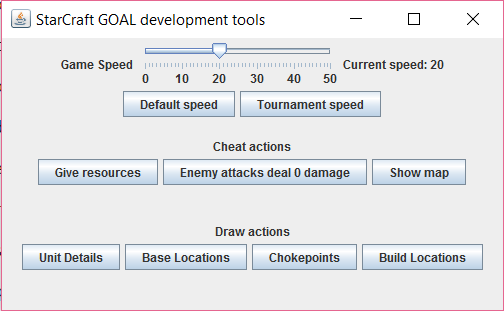
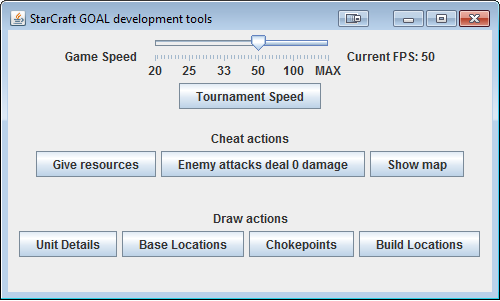
Updated Manual with the new environment changes

diff --git a/doc/sources/percepts.tex b/doc/sources/percepts.tex
@@ -131,7 +131,7 @@ These percepts are available to all the units and buildings.
 \\
 \begin{tabularx}{\textwidth}{lX}
  Description & The race of your opponent. \\
- Type & Send once \\
+ Type & Send on change \\
  Syntax &  \verb|enemyRace(<Race>)| \\
  Example & \verb|enemyRace(protoss)|   \\ 
  \end{tabularx}
@@ -141,6 +141,34 @@ These percepts are available to all the units and buildings.
              & \textbf{Type} & \verb|String| \\
             \cline{2-3} 
 \end{tabularx}
+\\\\
+\noindent
+\textbf{GameSpeed percept}\\
+\\
+\begin{tabularx}{\textwidth}{lX}
+ Description & The current game speed in frames per seconds. For more information see Section \ref{game speed}. \\
+ Type & Send on change \\
+ Syntax &  \verb|gameSpeed(<FPS>)| \\
+ Example & \verb|gameSpeed(50)|   \\ 
+ \end{tabularx}
+ \begin{tabularx}{\textwidth}{l | c | p{8cm}|}
+ \cline{2-3} 
+  Parameters & \textbf{\verb|<FPS>|} & The current amount of frames per second the game is updated by. \\
+             & \textbf{Type} & \verb|Positive Integer| \\
+             & \textbf{Range} & [0--$\infty$] \\
+            \cline{2-3} 
+\end{tabularx}
+\\\\
+\noindent
+\textbf{Winner percept}\\
+\\
+\begin{tabularx}{\textwidth}{lX}
+ Description & At the end of the game all units will perceive this if you have won the game. \\
+ Type & always \\
+ Syntax &  \verb|winner| \\
+ Example & \verb|winner|   \\ 
+ \end{tabularx}
+
 
 \subsection{Map Percepts}
 \textbf{Map percept}\\
@@ -162,7 +190,7 @@ These percepts are available to all the units and buildings.
             & \textbf{Range} & [0--$\infty$] \\
             \cline{2-3} 
 \end{tabularx}\\
- 
+ \newpage
 \noindent
 \textbf{Base percept}\\
 \\
@@ -218,7 +246,7 @@ These percepts are available to all the units and buildings.
 \textbf{Attacking percept}\\
 \\
 \begin{tabularx}{\textwidth}{lX}
- Description & Shows the units which are attacking and which units they have targeted. \\
+ Description & Shows the enemy units which are attacking and which units they have targeted. \\
  Type & Send always \\
  Syntax & \verb|attacking(<ID>,<TargetID>,<X>,<Y>)| \\
  Example & \verb|attacking(123, 177, 120, 96)| \\ 
@@ -245,20 +273,63 @@ These percepts are available to all the units and buildings.
 
 \newpage
 \noindent
-\textbf{Unit percept}\\
+\textbf{Friendly percept}\\
 \\
 \begin{tabularx}{\textwidth}{lX}
  Description & Shows all units that are currently visible to the player. \\
  Type & Send always \\
- Syntax & \verb|unit(<IsFriendly>,<Type>,<ID>,<Health>,<Shield>,<Condition>)| \\
- Example & \verb|unit(true, Protoss Gateway, 26, 255, 255, [isBeingConstructed])| \\ 
+ Syntax & \verb|unit(<Type>,<ID>,<Condition>)| \\
+ Example & \verb|unit(Protoss Gateway, 26, [isBeingConstructed])| \\ 
  \end{tabularx}
  \begin{tabularx}{\textwidth}{l | c | p{8cm}|}
  \cline{2-3} 
- Parameters & \textbf{\verb|<IsFriendly>|} & Indicates whether the unit is friendly or not. \\
-            & \textbf{Type} & \verb|Boolean| (true or false) \\
-            \cline{2-3} 
+ Parameters 
             & \textbf{\verb|<Type>|} & The type of the unit. The type of a unit consists of a string with the race of the unit and the name of the unit parted by a space. See Section \ref{unittype} for the list of all the unit types. \\
+            & \textbf{Type} & \verb|String| \\
+            \cline{2-3} 
+            & \textbf{\verb|<ID>|} & The (unique) \textit{ID} of the unit.\\
+            & \textbf{Type} & \verb|Positive Integer| \\
+            & \textbf{Range} & [0--$\infty$] \\
+            \cline{2-3} 
+            & \textbf{\verb|<Cond>|} & The current condition of the unit. Each unit can have multiple or no conditions depending on the unit and situation. See Section \ref{conditions} for the list of all actual conditions.\\ 
+            & \textbf{Type} & \verb|List of Strings| \\
+            \cline{2-3} 
+\end{tabularx}\\
+\newpage
+\noindent
+
+% \textbf{UnitAmount percept}\\
+% \\
+% \begin{tabularx}{\textwidth}{lX}
+%  Description & Shows the amount of units for each unit type. \\
+%  Type & Send always \\
+%  Syntax & \verb|unit(<Type>,<Amount>)| \\
+%  Example & \verb|unit(Protoss Gateway, 2)| \\ 
+%  \end{tabularx}
+%  \begin{tabularx}{\textwidth}{l | c | p{8cm}|}
+%  \cline{2-3} 
+%  Parameters & \textbf{\verb|<Type>|} & The type of the unit. The type of a unit consists of a string with the race            of the unit and the name of the unit parted by a space. See Section \ref{unittype} for the list of               all the unit types. \\
+%             & \textbf{Type} & \verb|String| \\
+%             \cline{2-3} 
+%             & \textbf{\verb|<Amount>|} & The Amount of units of the given type that are currently in the game.\\ 
+%             & \textbf{Type} & \verb|Positivie Integer| \\
+%             & \textbf{Range} & [0--400] \\
+%             \cline{2-3} 
+% \end{tabularx}\\
+
+%\newpage
+\noindent
+\textbf{Enemy percept}\\
+\\
+\begin{tabularx}{\textwidth}{lX}
+ Description & Shows all enemy units that are currently visible to the player. \\
+ Type & Send always \\
+ Syntax & \verb|enemy(<Type>,<ID>,<Health>,<Shield>,<Condition>,<X>,<Y>)| \\
+ Example & \verb|enemy(Zerg Overlord, 12, 200, 0, [flying], 120, 96)| \\ 
+ \end{tabularx}
+ \begin{tabularx}{\textwidth}{l | c | p{8cm}|}
+ \cline{2-3} 
+ Parameters & \textbf{\verb|<Type>|} & The type of the unit. The type of a unit consists of a string with the race of            the unit and the name of the unit parted by a space. \\
             & \textbf{Type} & \verb|String| \\
             \cline{2-3} 
             & \textbf{\verb|<ID>|} & The (unique) \textit{ID} of the unit.\\
@@ -276,63 +347,15 @@ These percepts are available to all the units and buildings.
             & \textbf{\verb|<Cond>|} & The current condition of the unit. Each unit can have multiple or no conditions depending on the unit and situation. See Section \ref{conditions} for the list of all actual conditions.\\ 
             & \textbf{Type} & \verb|List of Strings| \\
             \cline{2-3} 
-\end{tabularx}\\
-\newpage
-\noindent
-\textbf{UnitAmount percept}\\
-\\
-\begin{tabularx}{\textwidth}{lX}
- Description & Shows the amount of units for each unit type. \\
- Type & Send always \\
- Syntax & \verb|unit(<Type>,<Amount>)| \\
- Example & \verb|unit(Protoss Gateway, 2)| \\ 
- \end{tabularx}
- \begin{tabularx}{\textwidth}{l | c | p{8cm}|}
- \cline{2-3} 
- Parameters & \textbf{\verb|<Type>|} & The type of the unit. The type of a unit consists of a string with the race            of the unit and the name of the unit parted by a space. See Section \ref{unittype} for the list of               all the unit types. \\
-            & \textbf{Type} & \verb|String| \\
+            & \textbf{\verb|<X>|} & The x-coordinate of the unit.\\
+            & \textbf{Type} & \verb|Positive Integer| \\
+            & \textbf{Range} & [0--$\infty$] \\
             \cline{2-3} 
-            & \textbf{\verb|<Amount>|} & The Amount of units of the given type that are currently in the game.\\ 
-            & \textbf{Type} & \verb|Positivie Integer| \\
-            & \textbf{Range} & [0--400] \\
+            & \textbf{\verb|<Y>|} & The y-coordinate of the unit.\\
+            & \textbf{Type} & \verb|Positive Integer| \\
+            & \textbf{Range} & [0--$\infty$] \\
             \cline{2-3} 
 \end{tabularx}\\
-
-\newpage
-% \noindent
-% \textbf{Enemy percept}\\
-% \\
-% \begin{tabularx}{\textwidth}{lX}
-%  Description & Shows all enemy units that are currently visible to the player. \\
-%  Type & Send always \\
-%  Syntax & \verb|enemy(<Type>,<Health>,<Shield>,<Condition>,<X>,<Y>)| \\
-%  Example & \verb|enemy(Zerg Overlord, 200, 0, [flying], 120, 96)| \\ 
-%  \end{tabularx}
-%  \begin{tabularx}{\textwidth}{l | c | p{8cm}|}
-%  \cline{2-3} 
-%  Parameters & \textbf{\verb|<Type>|} & The type of the unit. The type of a unit consists of a string with the race of            the unit and the name of the unit parted by a space. \\
-%             & \textbf{Type} & \verb|String| \\
-%             \cline{2-3} 
-%             & \textbf{\verb|<Health>|} & The current amount of health of the unit.\\
-%             & \textbf{Type} & \verb|Positive Integer| \\
-%             & \textbf{Range} & [0--\verb|<maxHealth>|] where \verb|<maxHealth>| is the maximum health of the given unit.\\
-%             \cline{2-3} 
-%             & \textbf{\verb|<Shield>|} & The current amount of shields of the unit. \\
-%             & \textbf{Type} & \verb|Positive Integer| \\
-%             & \textbf{Range} & [0--\verb|<maxShield>|] where \verb|<maxShield>| is the maximum shield of the given unit. \\
-%             \cline{2-3} 
-%             & \textbf{\verb|<Cond>|} & The current condition of the unit. Each unit can have multiple or no conditions depending on the unit and situation. See Section \ref{conditions} for the list of all actual conditions.\\ 
-%             & \textbf{Type} & \verb|List of Strings| \\
-%             \cline{2-3} 
-%             & \textbf{\verb|<X>|} & The x-coordinate of the unit.\\
-%             & \textbf{Type} & \verb|Positive Integer| \\
-%             & \textbf{Range} & [0--$\infty$] \\
-%             \cline{2-3} 
-%             & \textbf{\verb|<Y>|} & The y-coordinate of the unit.\\
-%             & \textbf{Type} & \verb|Positive Integer| \\
-%             & \textbf{Range} & [0--$\infty$] \\
-%             \cline{2-3} 
-% \end{tabularx}\\
 
 
 
@@ -476,39 +499,39 @@ These percepts are available to worker units.
 \textbf{Worker Activity Percept}
 \\
 \begin{tabularx}{\textwidth}{lX}
- Description & Shows the current activity of all friendly workers. \\
- Type & Send always \\
- Syntax & \verb|workerActivity(<ID>, <Activity>)| \\
- Example & \verb|workerActivity(146, gatheringGas)| \\ 
+ Description & Shows the current activity of the worker. \\
+ Type & Send on change \\
+ Syntax & \verb|workerActivity(<Activity>)| \\
+ Example & \verb|workerActivity(gatheringGas)| \\ 
  \end{tabularx}
  \begin{tabularx}{\textwidth}{l | c | p{8cm}|}
  \cline{2-3} 
- Parameters & \textbf{\verb|<ID>|} & The (unique) \textit{ID} of the worker unit. \\
-            & \textbf{Type} & \verb|Positive Integer| \\
-            & \textbf{Range} & [0--$\infty$] \\
-            \cline{2-3} 
-            & \textbf{\verb|<Activity>|} & The current activity of the worker unit. Can take values: gatheringGas, gatheringMinerals, constructing or idling. \\
+ Parameters  & \textbf{\verb|<Activity>|} & The current activity of the worker unit. Can take values: gatheringGas, gatheringMinerals, constructing or idling. \\
             & \textbf{Type} & \verb|String| \\
             \cline{2-3} 
 \end{tabularx}\\
 \\
 \newpage
 \noindent
-\textbf{Gathering Percept} \\
-\\
-\begin{tabularx}{\textwidth}{lX}
- Description & Shows which mineral or vespene ID the worker is currently gathering from. \\
- Type & Send always \\
- Syntax & \verb|gathering(<ID>)| \\
- Example & \verb|gathering(110)| \\ 
- \end{tabularx}
- \begin{tabularx}{\textwidth}{l | c | p{8cm}|}
- \cline{2-3} 
- Parameters & \textbf{\verb|<ID>|} & The (unique) \textit{ID} of the mineral or vespene geyser. \\
-            & \textbf{Type} & \verb|Positive Integer| \\
-            & \textbf{Range} & [0--$\infty$] \\
-            \cline{2-3} 
-\end{tabularx}\\
+
+
+%\textbf{Gathering Percept} \\
+%\\
+%\begin{tabularx}{\textwidth}{lX}
+ %Description & Shows which mineral or vespene ID the worker is currently gathering from. \\
+ %Type & Send always \\
+ %Syntax & \verb|gathering(<ID>)| \\
+ %Example & \verb|gathering(110)| \\ 
+ %\end{tabularx}
+ %\begin{tabularx}{\textwidth}{l | c | p{8cm}|}
+ %\cline{2-3} 
+ %Parameters & \textbf{\verb|<ID>|} & The (unique) \textit{ID} of the mineral or vespene geyser. \\
+ %           & \textbf{Type} & \verb|Positive Integer| \\
+ %           & \textbf{Range} & [0--$\infty$] \\
+ %           \cline{2-3} 
+%\end{tabularx}\\
+
+
 
 \subsection{Builder Percepts}
 \textbf{Vespene Geyser percept}\\
@@ -549,8 +572,8 @@ These percepts are available to worker units.
 \begin{tabularx}{\textwidth}{lX}
  Description & Information about a visible mineralfield on the map. \\
  Type & Send on change \\
- Syntax & \verb|vespeneGeyser(<ID>,<Resources>,<ResourceGroup>,<X>,<Y>)| \\
- Example & \verb|vespeneGeyser(57, 5000, 6, 22, 32)| \\ 
+ Syntax & \verb|mineralField(<ID>,<Resources>,<ResourceGroup>,<X>,<Y>)| \\
+ Example & \verb|mineralField(57, 5000, 6, 22, 32)| \\ 
  \end{tabularx}
  \begin{tabularx}{\textwidth}{l | c | p{8cm}|}
  \cline{2-3} 

diff --git a/doc/sources/environment.tex b/doc/sources/environment.tex
@@ -2,23 +2,24 @@
 This section will explain how to set up and start a bot with the starcraft environment using the GOAL programming language.
 
 \section{Chaoslauncher}
-In order to make use of all the starcraft brood war plugin, you can make use of the application: the chaoslauncher. With this application several plugins can be used like the: \textit{BWAPI Injector} which is neccesary for using the BWAPI library. It is also recommended to make use of the plugin: \textit{APMAlert}, which shows the current actions per minute of all your units together. When the APM of your bot is suddenly very high, your agents might be using to many actions in a row. At last it is also recommonded to make use of the \textit{W-Mode} plugin. This plugin automatically sets your Starcraft game in windowed mode which makes it easier for debugging. 
+In order to make use of all the starcraft brood war plugin, you can make use of the application: the chaoslauncher. With this application several plugins can be used like the: \textit{BWAPI Injector} which is neccesary for using the BWAPI library. It is also recommended to make use of the plugin: \textit{APMAlert}, which shows the current actions per minute of all your units together. When the APM of your bot is suddenly very high, your agents might be using to many actions in a row. At last it is also recommended to make use of the \textit{W-Mode} plugin. This plugin automatically sets your Starcraft game in windowed mode which makes it easier for debugging. 
 
 \section{Installation}
 For installation instructions, see: \url{https://github.com/eishub/Starcraft/wiki/Install-Guide}
 
 \section{The Mas2g}
 \label{mas2g}
-The starcraft environment offers multiple parameters to be set up in the mas2g. Within the mas2g you can specify which map you want to play, specify your own race, give up the map location of your starcraft game, turn the development tool on or off, enable the automenu script and specify which race you want to play against.
+The starcraft environment offers multiple parameters to be set up in the mas2g. Within the mas2g you can specify which map you want to play, specify your own race, give up the map location of your starcraft game, turn the development tool on or off, enable the automenu script and specify which race you want to play against. When any of these parameters are updated do not forget to close the Chaoslauncher before launching the project or else it will have no effect.
 
 \begin{verbatim}
-    use StarcraftEnvironment.jar as environment with
+    use "../../StarCraft Connector.jar" as environment with
         map="(2)Destination.scx",
         own_race="terran",
         starcraft_location="C:\\Starcraft",
         debug="true",
         auto_menu="Single_Player",
-        enemy_race="zerg".
+        enemy_race="zerg",
+        game_speed=50.
 \end{verbatim}
 
 \subsection{Map}
@@ -29,7 +30,7 @@ It is possible to specify which map the chaoslauncher will automatically load wh
 \label{own race}
 You may also specify the race of your bot in the mas2g. This will automatically launch the chaoslauncher with the specified race. You can do this by inserting the following line: \textit{own\_race = <RaceName>}, where \textit{<RaceName>} can either be \textit{zerg}, \textit{protoss}, \textit{terran} or \textit{random}. The option \textit{random} will choose one race with 1/3 of a chance for each race. 
 
-\subsection{Starcraft\_Location}
+\subsection{Starcraft Location}
 \label{starcraft location}
 It is also possible to specify the location of the source map of the starcraft game. When using the starcraft game provided by the environment installer, this feature will automatically start the chaoslauncher when launching the GOAL bot. When the chaoslauncher is already running it won't start again untill you close it. When the Choaslauncher is automatically started by the environment, an automatic script will be written with all the necessary information to run the GOAL bot (so it is recommended to use this feature). You can use this feature by inserting the line: \textit{starcraft\_location = <FilePath>}, where \textit{<FilePath>} is the absolute path to the starcraft source folder.
 
@@ -44,6 +45,10 @@ The auto menu parameter can be used to quickly go through the menu of the game w
 \subsection{Enemy Race}
 \label{enemy race}
 The enemy race parameter can be used for specifying which race you want to play against. When an actual enemy race is chosen like: \textit{zerg}, \textit{protoss} or \textit{terran} the \textit{enemyRace} percept will indicate against which race you are playing, while when not specifying an enemy race, so when the option: \textit{random} is chosen, the \textit{enemyRace} percept will be \textit{Unknown} untill the opponent is scouted for the first time. For using the enemy race parameter you can insert the following line: \textit{enemy\_race=<RaceName>}, where \textit{<RaceName>} can either be \textit{zerg}, \textit{protoss}, \textit{terran} or \textit{random}. The option \textit{random} will choose one race with 1/3 of a chance for each race. 
+
+\subsection{Game Speed}
+\label{game speed}
+The game speed parameter can be used to set the initial speed of the game when the StarCraft game is launched. StarCraft makes use of a logical frame rate, which means that the game\_speed depends on the amount of frames per second (fps) used to update the game. So the higher the fps, the faster the game will go. For using the game\_speed parameter you can insert the following line: \textit{game\_speed=<FPS>}, where \textit{<FPS>} is a positive integer. If the integer 0 is chosen, there will be no limit on the amount of FPS used and the game will go as fast as it possibly can. \textbf{Please Note that when Integer 0 is chosen the gameSpeed/1 percept will not give an accurate result}
 
 \subsection{Defining an agent}
 When defining an agent it is important that the right type is given to the agent. This has to be the same type of the starcraft unit where the first letter is non-capital. So for example when you want to add a terran SCV agent, this can be done by defining the type of this agent as: \textit{terranSCV}. Note that each unit type first begins with the race of the unit and is followed by the exact name of the unit type.
@@ -72,7 +77,7 @@ When defining an agent it is important that the right type is given to the agent
 \end{figure}
 
 \subsection{Game Speed}
-The Game Speed slider can be found at the top of the development tool window. This can be used to quickly change the speed of the game. The initial game speed is set to 20. The fastest game speed is 50 and the slowest game speed is 0. Please note that the agent is supposed to play normally at game speed 30 which is the default game speed for AI tournaments. When the speed is set to 50, the agents can react slower than they would be on the tournament gamespeed. Setting the game speed on 50 should only be used for quick testing purposes.
+The Game Speed slider can be found at the top of the development tool window. This can be used to quickly change the speed of the game. The initial game speed is set to 50 fps. The slowest speed is 20 fps and from there you can set it as fast as you want. Please note that the agent is supposed to play normally at 50 fps which is the default game speed for AI tournaments. When the speed is set to a 100 fps or higher, the agents can react slower than they would be on the tournament gamespeed. Setting the game speed on 100 or higher should only be used for quick testing purposes.
 
 \subsection{Cheat Actions}
 The development tool offers 3 buttons which instantly enable cheats. Note that these cheats should be used for testing purposes only. The first cheat is called: \textit{Give resources} which gives the player 10000 minerals and 10000 gas. The second cheat is called: \textit{Enemy attacks deal 0 damager} which makes the units of the player immune for damage. The last cheat is called: \textit{Show map} which makes the whole map visible for the player. Note that also all your agents will be perceiving everything on the map. 

diff --git a/doc/sources/actions.tex b/doc/sources/actions.tex
@@ -173,6 +173,31 @@ This section will list all the actions that are usable in the Starcraft environm
  Post & The targeted unit starts walking to the loadable unit and loads into it.
 \end{tabularx}
 
+\section{Unload action}
+\begin{tabularx}{\textwidth}{lX}
+ Desription & Order a unit to unload from this (loadable) unit. \\
+ Syntax & \verb|unload(<ID>)| \\
+ Parameters & \verb|<ID>|: The \textit{ID} of the unit to unload from this (loadable) unit.\\
+ Pre & The unit is capable of loading other units inside it. \\
+ Post & The targeted unit is unloaded and stands next to the (loadable) unit.
+\end{tabularx}
+
+\section{UnloadAll action}
+\begin{tabularx}{\textwidth}{lX}
+ Desription & Order all units to unload from this (loadable) unit. \\
+ Syntax & \verb|unloadAll| \\
+ Pre & The unit is capable of loading other units inside it. \\
+ Post & All units are unloaded and stand next to the (loadable) unit.
+\end{tabularx}
+
+\section{Cancel action}
+\begin{tabularx}{\textwidth}{lX}
+ Desription & Cancels the construction of the unit. \\
+ Syntax & \verb|cancel| \\
+ Pre & The unit is morphing or beingConstructed. \\
+ Post & The morphing or construction is cancelled.
+\end{tabularx}
+
 %Kweet niet of ik deze action wil houden
 %\section{RightClick action}
 %\begin{tabularx}{\textwidth}{lX}
